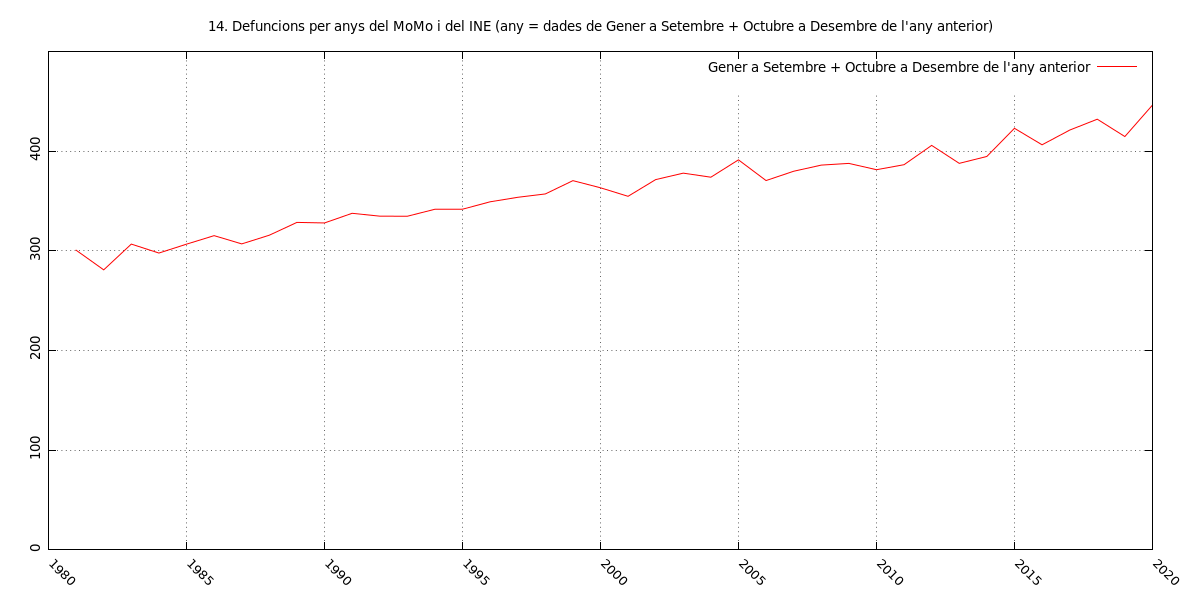
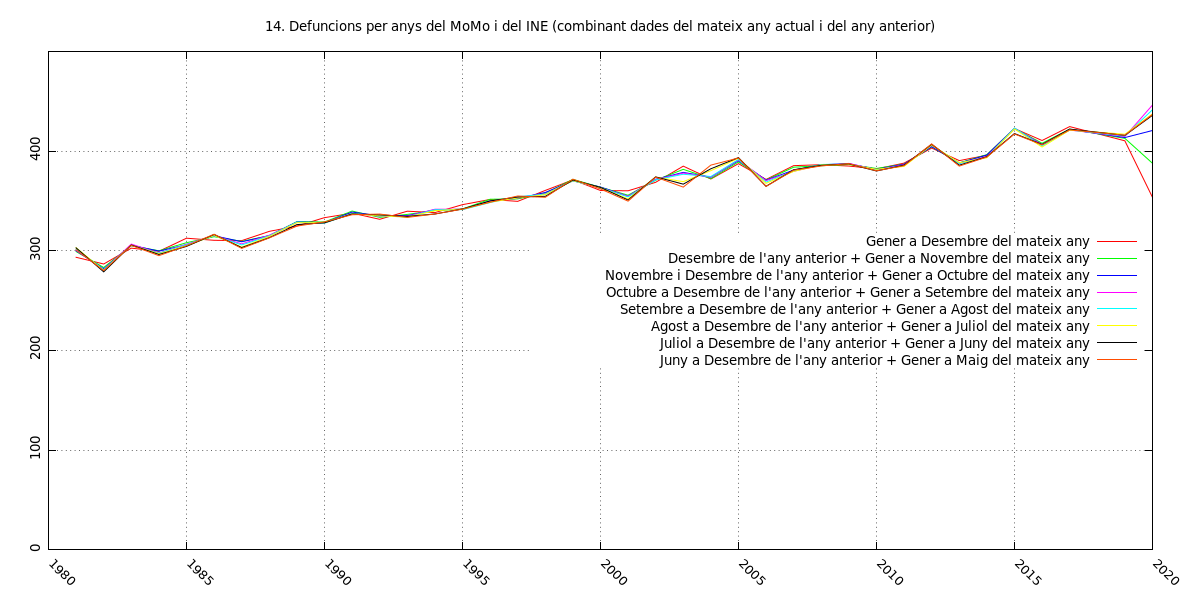
Millorar la grafica 14 que mostra la mortalitat des del 1980 fins al 2020, la gracia d'aquesta grafica es que mostra diverses opcions de calcul de la mortalitat anual fent servir mesos d'un any i mesos del any anterior

diff --git a/index.en.html b/index.en.html
@@ -98,7 +98,7 @@ a { color:#fff; }
 <h3>13. Deaths by day obtained from SICO Portugal</h3>
 <img src='output/plot13en.png'/>
 <a name='plot14'></a>
-<h3>14. Deaths by year obtained from MoMo and INE (year = data from January to September + October to December of the previous year)</h3>
+<h3>14. Deaths by year obtained from MoMo and INE (combining data from the same year and the previous year)</h3>
 <img src='output/plot14en.png'/>
 <h3>More info / sources: <a href='https://github.com/josepsanzcamp/covid19/'>https://github.com/josepsanzcamp/covid19/</a></h3>
 </div>

diff --git a/index.es.html b/index.es.html
@@ -98,7 +98,7 @@ a { color:#fff; }
 <h3>13. Defunciones por dia obtenidos del SICO Portugal</h3>
 <img src='output/plot13es.png'/>
 <a name='plot14'></a>
-<h3>14. Defunciones por año del MoMo y del INE (año = datos de Enero a Setiembre + Octubre a Diciembre del año anterior)</h3>
+<h3>14. Defunciones por año del MoMo y del INE (combinando datos del mismo año y del año anterior)</h3>
 <img src='output/plot14es.png'/>
 <h3>Más info / fuentes: <a href='https://github.com/josepsanzcamp/covid19/'>https://github.com/josepsanzcamp/covid19/</a></h3>
 </div>

diff --git a/index.ca.html b/index.ca.html
@@ -98,7 +98,7 @@ a { color:#fff; }
 <h3>13. Defuncions per dia obtinguts del SICO Portugal</h3>
 <img src='output/plot13ca.png'/>
 <a name='plot14'></a>
-<h3>14. Defuncions per anys del MoMo i del INE (any = dades de Gener a Setembre + Octubre a Desembre de l'any anterior)</h3>
+<h3>14. Defuncions per anys del MoMo i del INE (combinant dades del mateix any actual i del any anterior)</h3>
 <img src='output/plot14ca.png'/>
 <h3>Més info / fonts: <a href='https://github.com/josepsanzcamp/covid19/'>https://github.com/josepsanzcamp/covid19/</a></h3>
 </div>

diff --git a/program.php b/program.php
@@ -827,9 +827,9 @@ $textos=array(
 			"en"=>"13. Deaths by day obtained from SICO Portugal",
 		),
 		"14"=>array(
-			"ca"=>"14. Defuncions per anys del MoMo i del INE (any = dades de Gener a Setembre + Octubre a Desembre de l'any anterior)",
-			"es"=>"14. Defunciones por año del MoMo y del INE (año = datos de Enero a Setiembre + Octubre a Diciembre del año anterior)",
-			"en"=>"14. Deaths by year obtained from MoMo and INE (year = data from January to September + October to December of the previous year)",
+			"ca"=>"14. Defuncions per anys del MoMo i del INE (combinant dades del mateix any actual i del any anterior)",
+			"es"=>"14. Defunciones por año del MoMo y del INE (combinando datos del mismo año y del año anterior)",
+			"en"=>"14. Deaths by year obtained from MoMo and INE (combining data from the same year and the previous year)",
 		),
 	),
 	"footer"=>array(
@@ -941,9 +941,46 @@ $textos=array(
 		"en"=>"Atencion: this plot has a different scale related to the previous plot of the same group",
 	),
 	"plot14"=>array(
-		"ca"=>"Gener a Setembre + Octubre a Desembre de l'any anterior",
-		"es"=>"Enero a Setiembre + Octubre a Diciembre del año anterior",
-		"en"=>"January to September + October to December of the previous year",
+		0=>array(
+			"ca"=>"Gener a Desembre del mateix any",
+			"es"=>"Enero a Diciembre del mismo año",
+			"en"=>"January to December of the same year",
+		),
+		1=>array(
+			"ca"=>"Desembre de l'any anterior + Gener a Novembre del mateix any",
+			"es"=>"Diciembre del año anterior + Enero a Noviembre del mismo año",
+			"en"=>"December of the previous year + January to November of the same year",
+		),
+		2=>array(
+			"ca"=>"Novembre i Desembre de l'any anterior + Gener a Octubre del mateix any",
+			"es"=>"Noviembre y Diciembre del año anterior + Enero a Octubre del mismo año",
+			"en"=>"November and December of the previous year + January to October of the same year",
+		),
+		3=>array(
+			"ca"=>"Octubre a Desembre de l'any anterior + Gener a Setembre del mateix any",
+			"es"=>"Octubre a Diciembre del año anterior + Enero a Setiembre del mismo año",
+			"en"=>"October to December of the previous year + January to September of the same year",
+		),
+		4=>array(
+			"ca"=>"Setembre a Desembre de l'any anterior + Gener a Agost del mateix any",
+			"es"=>"Setiembre a Diciembre del año anterior + Enero a Agosto del mismo año",
+			"en"=>"September to December of the previous year + January to August of the same year",
+		),
+		5=>array(
+			"ca"=>"Agost a Desembre de l'any anterior + Gener a Juliol del mateix any",
+			"es"=>"Agosto a Diciembre del año anterior + Enero a Julio del mismo año",
+			"en"=>"August to December of the previous year + January to July of the same year",
+		),
+		6=>array(
+			"ca"=>"Juliol a Desembre de l'any anterior + Gener a Juny del mateix any",
+			"es"=>"Julio a Diciembre del año anterior + Enero a Junio del mismo año",
+			"en"=>"July to December of the previous year + January to June of the same year",
+		),
+		7=>array(
+			"ca"=>"Juny a Desembre de l'any anterior + Gener a Maig del mateix any",
+			"es"=>"Junio a Diciembre del año anterior + Enero a Mayo del mismo año",
+			"en"=>"June to December of the previous year + January to May of the same year",
+		),
 	),
 );
 
@@ -1937,43 +1974,66 @@ if(!file_exists("output/plot14${lang}.png")) {
 	$momo=import_file("middle/datanew-ok.csv");
 	$ine1=import_file("middle/02001-ok.csv");
 	$ine2=import_file("middle/14819-ok.csv");
-	// CREAR LLISTA AMB LES DADES DEL MOMO PER L'ANY 2020 FENT SERVIR LA IDEA DE QUE OCTUBRE, NOVEMBRE I DESEMBRE, PERTANYEN AL ANY SEGÜENT
+	// CREAR LLISTA AMB LES DADES DEL MOMO PER L'ANY 2020
+	// LA IDEA ORIGINAL ERA FENT SERVIR OCTUBRE, NOVEMBRE I DESEMBRE DEL AL ANY ANTERIOR
+	// DESPRES VA EVOLUCIONAR PER FER-HO AMB TOTS ELS MESOS DE L'ANY
+	// L'ARRAY DE SORTIDA TINDRA 12 ELEMENTS QUE SON ELS SUMATORIS DELS MESOS DE L'ANY + ANY ANTERIOR PER LA POSICIO QUE TOQUI
+	// PER EXEMPLE:
+	// LA POSICIO 0 TE TOTES LES DADES DEL ANY QUE TOCA
+	// LA POSICIO 1 TE LES DADES DE TOT EL ANY EXCEPTE PER DESEMBRE QUE FA SERVIR LES DEL ANY ANTERIOR
+	// LA POSICIO 2 TE LES DADES DE TOT EL ANY EXCEPTE PER NOVEMBRE I DESEMBRE
+	// LA POSICIO 3 TE LES DADES DE TOT EL ANY EXCEPTE PER OCTUBRE, NOVEMBRE I DESEMBRE
+	// LA POSICIO 4 TE LES DADES DE TOT EL ANY EXCEPTE PER SETEMBRE, OCTUBRE, NOVEMBRE I DESEMBRE
+	// LA POSICIO 5 TE LES DADES DE TOT EL ANY EXCEPTE PER AGOST, SETEMBRE, OCTUBRE, NOVEMBRE I DESEMBRE
+	// LA POSICIO 6 TE LES DADES DE TOT EL ANY EXCEPTE PER JULIOL, AGOST, SETEMBRE, OCTUBRE, NOVEMBRE I DESEMBRE
+	// LA POSICIO 7 TE LES DADES DE TOT EL ANY EXCEPTE PER JUNY, JULIOL, AGOST, SETEMBRE, OCTUBRE, NOVEMBRE I DESEMBRE
 	$matrix1=array();
 	foreach($momo as $key=>$val) {
-		$year=strtok($val[0],"-");
-		$month=intval(strtok(""));
-		if(in_array($month,array(10,11,12))) $year++;
-		if(!isset($matrix1[$year])) $matrix1[$year]=0;
-		$matrix1[$year]+=$val[1];
+		for($i=0;$i<8;$i++) {
+			$year=strtok($val[0],"-");
+			$month=intval(strtok(""));
+			if($month>12-$i) $year++;
+			if(!isset($matrix1[$year])) $matrix1[$year]=array_fill(0,8,0);
+			$matrix1[$year][$i]+=$val[1];
+		}
 	}
 	$matrix1=array(2020=>$matrix1[2020]);
 	// IDEM PERO PER LES DADES DEL INE1 PER L'ANY 2019
 	$matrix2=array();
 	foreach($ine1 as $key=>$val) {
-		$year=strtok($val[0],"-");
-		$month=intval(strtok(""));
-		if(in_array($month,array(10,11,12))) $year++;
-		if(!isset($matrix2[$year])) $matrix2[$year]=0;
-		$matrix2[$year]+=$val[1];
+		for($i=0;$i<8;$i++) {
+			$year=strtok($val[0],"-");
+			$month=intval(strtok(""));
+			if($month>12-$i) $year++;
+			if(!isset($matrix2[$year])) $matrix2[$year]=array_fill(0,8,0);
+			$matrix2[$year][$i]+=$val[1];
+		}
 	}
 	$matrix2=array(2019=>$matrix2[2019]);
 	// IDEM PERO PER LES DADES DEL INE2 PER LA RESTA D'ANYS
 	$matrix3=array();
 	foreach($ine2 as $key=>$val) {
-		$year=strtok($val[0],"-");
-		$month=intval(strtok(""));
-		if(in_array($month,array(10,11,12))) $year++;
-		if(!isset($matrix3[$year])) $matrix3[$year]=0;
-		$matrix3[$year]+=$val[1];
+		for($i=0;$i<8;$i++) {
+			$year=strtok($val[0],"-");
+			$month=intval(strtok(""));
+			if($month>12-$i) $year++;
+			if(!isset($matrix3[$year])) $matrix3[$year]=array_fill(0,8,0);
+			$matrix3[$year][$i]+=$val[1];
+		}
 	}
 	$years=array_keys($matrix3);
 	unset($matrix3[reset($years)]);
 	unset($matrix3[end($years)]);
 	// PREPARAR PER GUARDAR LES DADES AL FITXER CSV DEL PLOT
-	$matrix=array("Any"=>$textos["plot14"][$lang])+$matrix1+$matrix2+$matrix3;
+	$matrix=array("Any"=>array())+$matrix1+$matrix2+$matrix3;
+	foreach($textos["plot14"] as $texto) {
+		$matrix["Any"][]=$texto[$lang];
+	}
 	foreach($matrix as $key=>$val) {
-		if(is_numeric($val)) $val/=1000;
-		$matrix[$key]=array($key,$val);
+		foreach($val as $key2=>$val2) {
+			if(is_numeric($val2)) $val[$key2]/=1000;
+		}
+		$matrix[$key]=array_merge(array($key),$val);
 	}
 	export_file("middle/plot14${lang}.csv",$matrix);
 	$gnuplot=implode("\n",array(
@@ -1994,8 +2054,9 @@ if(!file_exists("output/plot14${lang}.png")) {
 		"set ytic center rotate by 90",
 		"set ytics 0,100,400",
 		"set datafile separator ';'",
+		"set key right center",
 		"set output 'output/plot14${lang}.png'",
-		"plot 'middle/plot14${lang}.csv' u 1:2 w l ti col, '' u 1:3 w l ti col",
+		"plot 'middle/plot14${lang}.csv' u 1:2 w l ti col, '' u 1:3 w l ti col, '' u 1:4 w l ti col, '' u 1:5 w l ti col, '' u 1:6 w l ti col, '' u 1:7 w l ti col, '' u 1:8 w l ti col, '' u 1:9 w l ti col",
 	))."\n";
 	file_put_contents("middle/plot14${lang}.gnu",$gnuplot);
 	passthru("gnuplot middle/plot14${lang}.gnu 2>&1");
